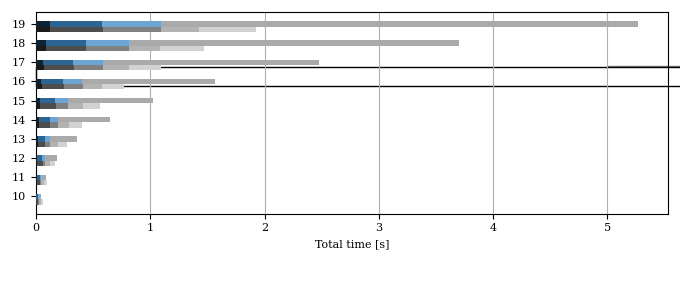
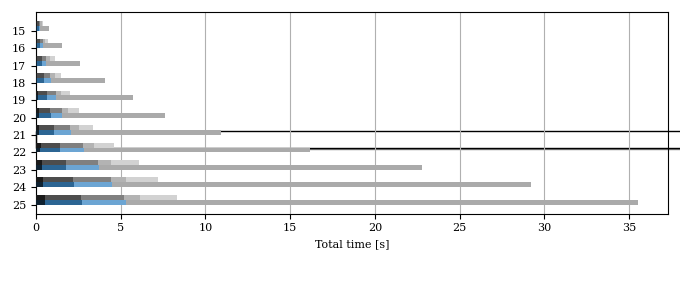
speedup triple paths

diff --git a/code/test/plot.py b/code/test/plot.py
@@ -50,10 +50,10 @@ csv_detailed_fields = [csv_simpleStructures, csv_getNearCleaners, csv_testNCShor
 #                        csv_list_rank, csv_distance_parent, csv_find_bridges, csv_naive_bridges]
 
 hatches = ['++', '**', 'oo', '----', '||', '..']
-algo_colors = {"Cuda Perfect": "#377eb8", "Perfect": "#ff7f00", "CUDA Naive": "#ff0000"}
-algo_markers = {"Cuda Perfect": ".", "Perfect": "x", "CUDA Naive": "o"}
+algo_colors = {"Cuda Perfect": "#377eb8", "Perfect": "#ff7f00", "CUDA Naive": "#ff0000", "Naive": "#00ff00"}
+algo_markers = {"Cuda Perfect": ".", "Perfect": "x", "CUDA Naive": "o", "Naive": "+"}
 
-algo_labels = {"Cuda Perfect": "GPU Perfect", "Perfect": "Perfect", "CUDA Naive": "GPU Naive"}
+algo_labels = {"Cuda Perfect": "GPU Perfect", "Perfect": "Perfect", "CUDA Naive": "GPU Naive", "Naive" : "Naive"}
 
 algo_field_labels = {csv_simpleStructures : "Simple Structures", csv_testNCRest: "Test NC Rest",
                      csv_getNearCleaners: "Get Near Cleaners", csv_testNCShortestPaths: "Test NC Shortest Paths", csv_gpuCopyR: "GPU Test NC Copy R", csv_gpuWork: "GPU test NC work"}

diff --git a/code/src/perfect.cpp b/code/src/perfect.cpp
@@ -20,9 +20,10 @@ bool isPerfectGraph(const Graph &G, bool gatherStats) {
 
   if (gatherStats) StatsFactory::startTestCasePart("Get Near Cleaners");
   auto Xs = getPossibleNearCleaners(G);
+  vec<vec<int>> triplePaths = getAllPaths(G, 3);
 
   for (auto X : Xs) {
-    if (containsOddHoleWithNearCleanerX(G, X, gatherStats)) {
+    if (containsOddHoleWithNearCleanerX(G, X, triplePaths, gatherStats)) {
       if (printInterestingGraphs) cout << "Interesting graph: " << G << endl;
       return false;
     }
@@ -30,9 +31,10 @@ bool isPerfectGraph(const Graph &G, bool gatherStats) {
 
   if (gatherStats) StatsFactory::startTestCasePart("Get Near Cleaners");
   auto XsC = getPossibleNearCleaners(GC);
+  vec<vec<int>> CTriplePaths = getAllPaths(GC, 3);
 
   for (auto X : XsC) {
-    if (containsOddHoleWithNearCleanerX(GC, X, gatherStats)) {
+    if (containsOddHoleWithNearCleanerX(GC, X, CTriplePaths, gatherStats)) {
       if (printInterestingGraphs) cout << "Interesting graph: " << G << endl;
       return false;
     }

diff --git a/code/src/nearCleaners.cpp b/code/src/nearCleaners.cpp
@@ -5,7 +5,8 @@
 #include "nearCleaners.h"
 #include "testCommons.h"
 
-bool containsOddHoleWithNearCleanerX(const Graph &G, const set<int> &sX, bool gatherStats) {
+bool containsOddHoleWithNearCleanerX(const Graph &G, const set<int> &sX, const vec<vec<int>> &triplePaths,
+                                     bool gatherStats) {
   if (gatherStats) StatsFactory::startTestCasePart("Test NC Shortest Paths");
   auto R = allShortestPathsWithPredicate(G, [&](int v) -> bool { return sX.count(v) == 0; });
 
@@ -13,11 +14,7 @@ bool containsOddHoleWithNearCleanerX(const Graph &G, const set<int> &sX, bool ga
   for (int y1 = 0; y1 < G.n; y1++) {
     if (sX.count(y1) > 0) continue;
 
-    vec<int> x;
-    while (1) {
-      nextPathInPlace(G, x, 3);
-      if (x.empty()) break;
-
+    for (auto x : triplePaths) {
       bool containsY1 = false;
       for (int i = 0; i < 3; i++) {
         if (x[i] == y1) {

diff --git a/code/src/testCommons.cpp b/code/src/testCommons.cpp
@@ -182,7 +182,7 @@ default_random_engine generatorWide;
 normal_distribution<double> distribution(0.5, 0.05);
 normal_distribution<double> distributionWide(0.5, 0.20);
 
-void testGraph(const Graph &G, vec<algos> algosToTest, vec<cuIsPerfectFunction> cuFunctions) {
+bool testGraph(const Graph &G, vec<algos> algosToTest, vec<cuIsPerfectFunction> cuFunctions) {
   bool prevResult;
   bool result;
 
@@ -222,6 +222,8 @@ void testGraph(const Graph &G, vec<algos> algosToTest, vec<cuIsPerfectFunction> 
 
     StatsFactory::endTestCase(result);
   }
+
+  return result;
 }
 
 // void printStats() {

diff --git a/code/inc/nearCleaners.h b/code/inc/nearCleaners.h
@@ -6,7 +6,8 @@
 // Returns true if G has an odd hole.
 // Returns false if there is no shortest odd hole C such that X is a near-cleaner for C.
 // G should contain no pyramid or jewel.
-bool containsOddHoleWithNearCleanerX(const Graph &G, const set<int> &sX, bool gatherStats = false);
+bool containsOddHoleWithNearCleanerX(const Graph &G, const set<int> &sX, const vec<vec<int>> &triplePaths,
+                                     bool gatherStats = false);
 
 bool cudaContainsOddHoleWithNearCleaners(const Graph &G, const set<set<int>> &Xs);
 

diff --git a/code/src/commons.cpp b/code/src/commons.cpp
@@ -625,3 +625,16 @@ void nextPathInPlace(const Graph &G, vec<int> &v, int len, bool isCycleOk, bool 
 
   return nextPathInPlaceInternal(G, v, len, isCycleOk, areChordsOk, holeRequired);
 }
+
+vec<vec<int>> getAllPaths(const Graph &G, int len, bool isCycleOk, bool areChordsOk, bool holeRequired) {
+  vec<vec<int>> ret;
+  vec<int> x;
+  while (1) {
+    nextPathInPlace(G, x, len, isCycleOk, areChordsOk, holeRequired);
+    if (x.empty()) break;
+
+    ret.push_back(x);
+  }
+
+  return ret;
+}

diff --git a/code/inc/commons.h b/code/inc/commons.h
@@ -159,3 +159,6 @@ bool isHole(const Graph &G, const vec<int> &v);
 // the last path returns empty vec. Iterating from empty vector to empty vector gives all paths of length len.
 void nextPathInPlace(const Graph &G, vec<int> &v, int len, bool isCycleOk = false, bool areChordsOk = false,
                      bool holeRequired = false);
+
+vec<vec<int>> getAllPaths(const Graph &G, int len, bool isCycleOk = false, bool areChordsOk = false,
+                          bool holeRequired = false);

diff --git a/code/inc/testCommons.h b/code/inc/testCommons.h
@@ -57,7 +57,7 @@ enum algos { algoPerfect, algoNaive, algoCudaNaive, algoCudaPerfect, algo_last }
 extern string algo_names[];
 
 typedef bool (*cuIsPerfectFunction)(const Graph &G, bool gatherStats);
-void testGraph(const Graph &G, vec<algos> algosToTest, vec<cuIsPerfectFunction> cuFunctions = {});
+bool testGraph(const Graph &G, vec<algos> algosToTest, vec<cuIsPerfectFunction> cuFunctions = {});
 
 struct StatsFactory {
   static void startTestCase(const Graph &G, algos algo);
